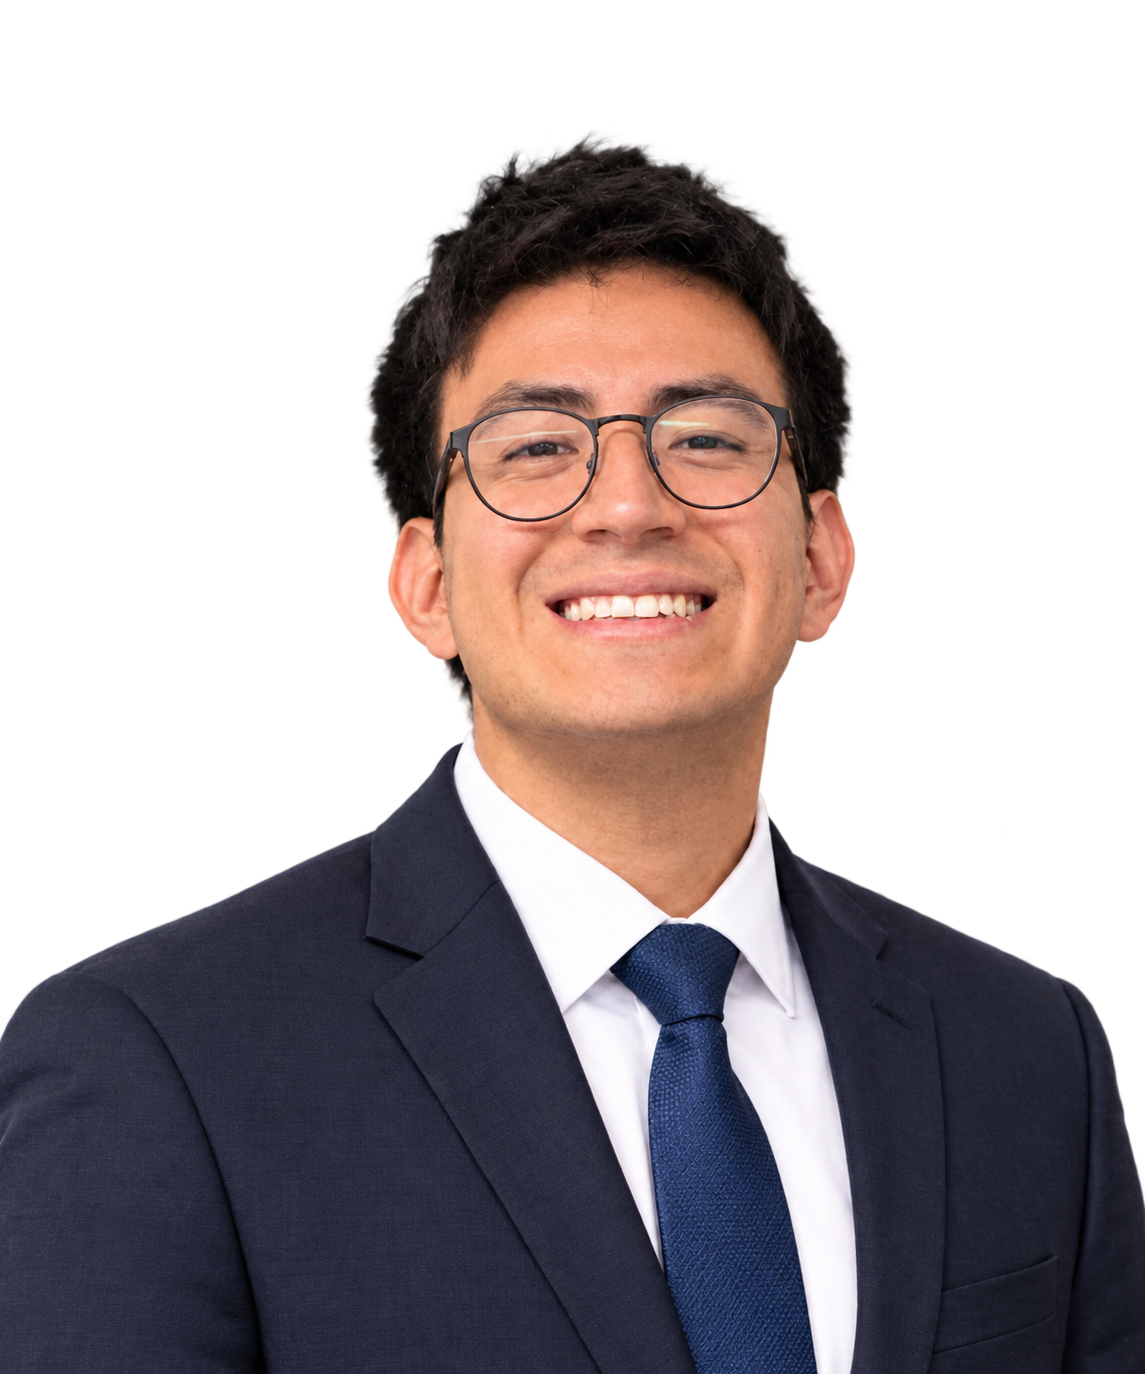
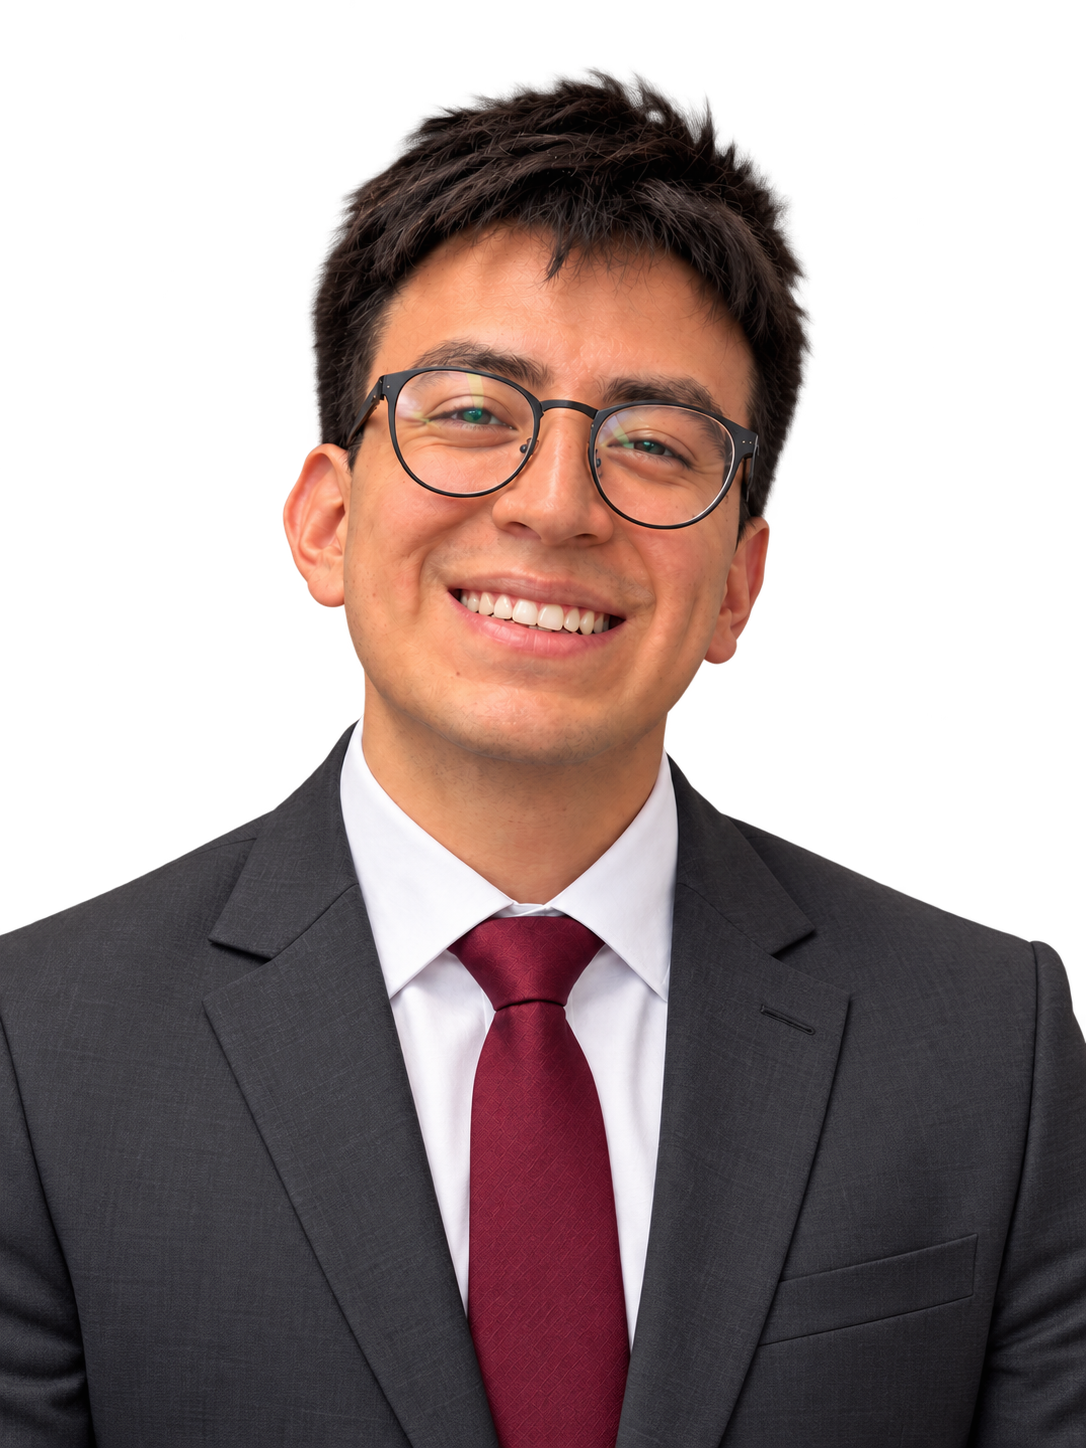
Update README and mentor profiles; enhance styling and images

diff --git a/_includes/aside.html b/_includes/aside.html
@@ -59,12 +59,12 @@
                     <div class="mentor-copy">
                         <h3>Marcel Morán</h3>
                         <div class="mentor-credentials">
-                            <p class="mentor-detail"><strong>Magíster en Ciencias de la Computación</strong><span>Especialidad en Sistemas de Software · EPFL</span></p>
+                            <p class="mentor-detail"><strong>Master en Ciencias de la Computación</strong><span>Especialidad en Sistemas de Software · EPFL</span></p>
                             <p class="mentor-detail"><strong>Pregrado en Ingeniería de Sistemas</strong><span>Universidad de Manchester</span></p>
                         </div>
                         <hr class="mentor-divider">
                         <div class="mentor-experience-grid">
-                            <div class="mentor-experience"><h4>Docencia</h4><p>5 años impartiendo clases de Python e IoT.</p></div>
+                            <div class="mentor-experience"><h4>Docencia</h4><p>5 años impartiendo clases de Python e IoT en distintas universidades del Ecuador.</p></div>
                             <div class="mentor-experience"><h4>Experiencia profesional</h4><p>Ha trabajado en ARM, Logitech y Amazon en desarrollo de software y sistemas embebidos.</p></div>
                         </div>
                     </div>
@@ -77,13 +77,13 @@
                     <div class="mentor-copy">
                         <h3>Alexis Rodríguez</h3>
                         <div class="mentor-credentials">
-                            <p class="mentor-detail"><strong>Magíster en Ciencias de la Computación</strong><span>Especialidad en Ingeniería de Computadores · EPFL</span></p>
+                            <p class="mentor-detail"><strong>Master en Ciencias de la Computación</strong><span>Especialidad en Ingeniería de Computadores · EPFL</span></p>
                             <p class="mentor-detail"><strong>Pregrado en Ingeniería de Sistemas</strong><span>Universidad de Manchester</span></p>
                         </div>
                         <hr class="mentor-divider">
                         <div class="mentor-experience-grid">
-                            <div class="mentor-experience"><h4>Docencia</h4><p>5 años impartiendo talleres de programación y microcontroladores.</p></div>
-                            <div class="mentor-experience"><h4>Experiencia profesional</h4><p>Ha trabajado en Intel, Huawei y onsemi en diseño FPGA, algoritmos y arquitectura de computadores.</p></div>
+                            <div class="mentor-experience"><h4>Docencia</h4><p>5 años impartiendo talleres de programación y microcontroladores en distintas universidades del Ecuador.</p></div>
+                            <div class="mentor-experience"><h4>Experiencia profesional</h4><p>Ha trabajado en Intel, Huawei y Onsemi en diseño FPGA, algoritmos y arquitectura de computadores.</p></div>
                         </div>
                     </div>
                 </article>
@@ -101,7 +101,7 @@
                         <hr class="mentor-divider">
                         <div class="mentor-experience-grid">
                             <div class="mentor-experience"><h4>Docencia</h4><p>Impartió cursos sobre desarrollo y uso de pipelines bioinformáticos para estudiantes universitarios.</p></div>
-                            <div class="mentor-experience"><h4>Experiencia profesional</h4><p>Experiencia en desarrollo de software, automatización, sistemas embebidos y análisis bioinformático.</p></div>
+                            <div class="mentor-experience"><h4>Experiencia profesional</h4><p>Experiencia en desarrollo de software, automatización y sistemas embebidos para la industria de Lighting Systems.</p></div>
                         </div>
                     </div>
                 </article>
@@ -113,13 +113,13 @@
                     <div class="mentor-copy">
                         <h3>Lenin Cruz</h3>
                         <div class="mentor-credentials">
-                            <p class="mentor-detail"><strong>Magíster en Automatización y Control</strong><span>Especialización en Sistemas Embebidos Industriales · Polimi</span></p>
+                            <p class="mentor-detail"><strong>Master en Automatización y Control</strong><span>Especialización en Sistemas Embebidos Industriales · Politecnico di Milano</span></p>
                             <p class="mentor-detail"><strong>Pregrado en Ingeniería Mecatrónica</strong><span>Universidad de Manchester</span></p>
                         </div>
                         <hr class="mentor-divider">
                         <div class="mentor-experience-grid">
-                            <div class="mentor-experience"><h4>Docencia</h4><p>4 años impartiendo cursos de IoT en distintas instituciones del Ecuador.</p></div>
-                            <div class="mentor-experience"><h4>Experiencia profesional</h4><p>Diseña firmware y soluciones IoT para sistemas embebidos con ESP32, FreeRTOS y MQTT; también ha participado en despliegues industriales.</p></div>
+                            <div class="mentor-experience"><h4>Docencia</h4><p>4 años impartiendo cursos de IoT en distintas universidades del Ecuador.</p></div>
+                            <div class="mentor-experience"><h4>Experiencia profesional</h4><p>Experiencia en firmware y soluciones IoT para el sector automotriz, elevadores y trenes.</p></div>
                         </div>
                     </div>
                 </article>

diff --git a/css/main.scss b/css/main.scss
@@ -69,14 +69,14 @@ section { padding: 110px 0; }
 .mentor-copy { display: flex; flex: 1; flex-direction: column; padding: 20px; }
 .mentor-grid h3 { margin: 0 0 14px; font-size: 18px; }
 .mentor-grid p { margin: 0 0 12px; color: $slate; font-size: 13px; line-height: 1.55; }
-.mentor-credentials { display: grid; grid-template-rows: repeat(2, minmax(76px, auto)); }
+.mentor-credentials { display: grid; grid-template-rows: repeat(2, 110px); }
 .mentor-detail { min-height: 76px; }
 .mentor-detail strong, .mentor-detail span { display: block; }
 .mentor-detail strong { color: $ink; }
 .mentor-detail span { margin-top: 2px; color: $slate; font-size: 12px; }
 .mentor-detail-empty { visibility: hidden; }
 .mentor-divider { width: 100%; max-width: none; margin: 4px 0 14px; border: 0; border-top: 1px solid $line; }
-.mentor-experience-grid { display: grid; grid-template-rows: repeat(2, minmax(118px, auto)); }
+.mentor-experience-grid { display: grid; grid-template-rows: repeat(2, 148px); }
 .mentor-experience { padding: 10px 0 14px; border-bottom: 1px solid $line; }
 .mentor-experience:last-child { border-bottom: 0; }
 .mentor-experience h4 { margin: 0 0 7px; color: $orange-deep; font: 700 11px/1.35 $mono; letter-spacing: .04em; text-transform: uppercase; }
@@ -89,4 +89,4 @@ section { padding: 110px 0; }
 .site-footer { padding: 46px 0 18px; background: $ink; color: #fff; }.footer-brand { display: inline-flex; align-items: center; gap: 10px; color: #fff; font-size: 17px; font-weight: 800; margin-bottom: 10px; }.site-footer p { color: #b4bfd0; font-size: 13px; }.footer-links { display: flex; flex-wrap: wrap; justify-content: flex-end; gap: 10px 20px; padding-top: 8px; }.footer-links a { color: #e7edf3; font-size: 11px; font-weight: 700; text-transform: uppercase; }.footer-links i { margin-right: 6px; color: $peach; font-size: 14px; }.footer-bottom { border-top: 1px solid #344563; margin-top: 30px; padding-top: 17px; color: #b4bfd0; font: 10px $mono; }.footer-bottom span { float: right; }
 
 @media (max-width: 991px) { .mentor-grid > [class*="col-"] { flex-basis: 50%; max-width: 50%; }.mentor-grid article { margin-bottom: 0; }.learning-grid article { min-height: 195px; }.project-stages { grid-template-columns: repeat(2,1fr); } }
-@media (max-width: 767px) { section { padding: 72px 0; } h2 { font-size: 34px; }.navbar-default .navbar-collapse { border-color: #344153; }.navbar-default .nav > li > a { padding: 12px 15px; }.navbar-default .nav-apply a { margin: 6px 15px 15px; text-align: center; }.fe-hero { min-height: 690px; }.fe-hero h1 { font-size: 68px; }.hero-logo { display: none; }.hero-actions { display: block; margin-bottom: 42px; }.hero-link { display: inline-block; margin: 19px 0 0 4px; }.program-facts li { padding: 0 12px; }.program-facts strong { font-size: 17px; }.program-facts span { font-size: 8px; }.mentor-grid > [class*="col-"] { flex-basis: 100%; max-width: 100%; }.mentor-grid > div:nth-child(-n+2) article { min-height: 520px; }.timeline:before { left: 29px; }.week-card { grid-template-columns: 72px 1fr; gap: 10px; padding-right: 4px; }.week-number { width: 61px; font-size: 13px; }.week-card h3 { font-size: 18px; }.project-stages { grid-template-columns: 1fr; margin-top: 55px; }.metrics strong { font-size: 20px; }.smart-room-display { margin-top: 42px; }.outcome-grid article { min-height: 0; }.footer-links { justify-content: flex-start; margin-top: 15px; }.footer-bottom span { float: none; display: block; margin-top: 5px; } }
+@media (max-width: 767px) { section { padding: 72px 0; } h2 { font-size: 34px; }.navbar-default .navbar-collapse { border-color: #344153; }.navbar-default .nav > li > a { padding: 12px 15px; }.navbar-default .nav-apply a { margin: 6px 15px 15px; text-align: center; }.fe-hero { min-height: 690px; }.fe-hero h1 { font-size: 68px; }.hero-logo { display: none; }.hero-actions { display: block; margin-bottom: 42px; }.hero-link { display: inline-block; margin: 19px 0 0 4px; }.program-facts li { padding: 0 12px; }.program-facts strong { font-size: 17px; }.program-facts span { font-size: 8px; }.mentor-grid > [class*="col-"] { flex-basis: 100%; max-width: 100%; }.mentor-grid article { min-height: 0; }.timeline:before { left: 29px; }.week-card { grid-template-columns: 72px 1fr; gap: 10px; padding-right: 4px; }.week-number { width: 61px; font-size: 13px; }.week-card h3 { font-size: 18px; }.project-stages { grid-template-columns: 1fr; margin-top: 55px; }.metrics strong { font-size: 20px; }.smart-room-display { margin-top: 42px; }.outcome-grid article { min-height: 0; }.footer-links { justify-content: flex-start; margin-top: 15px; }.footer-bottom span { float: none; display: block; margin-top: 5px; } }

diff --git a/README.md b/README.md
@@ -1,14 +1,13 @@
-# Creative Theme for Jekyll
+# Manchester TechLab
 
-A Jekyll implementation of the [Creative Theme](http://startbootstrap.com/template-overviews/creative/) template by [Start Bootstrap](http://startbootstrap.com).
+Spanish-language website for Manchester TechLab, an fundamentals program for students. The program introduces programming and engineering through practical projects, with mentors trained at the University of Manchester.
 
-Creative is a one page Bootstrap theme for creatives, small businesses, and other multipurpose uses.
-The theme includes a number of rich features and plugins that you can use as a great boilerplate for your next Jekyll project! 
+## Current page
 
-See it live in action at <https://volny.github.io/creative-theme-jekyll/>
+The visible one-page site contains:
 
-## To use the Creative Theme template in your project
-
-- Start by adding your info in `_config.yml`
-- In `_layouts/front.html` reorder or remove section as you prefer.
-
+- A Manchester TechLab introduction and program call to action
+- The program mission
+- Four mentor profiles with education, teaching, and professional experience
+- Contact options by WhatsApp and email
+- A footer with navigation and contact links
